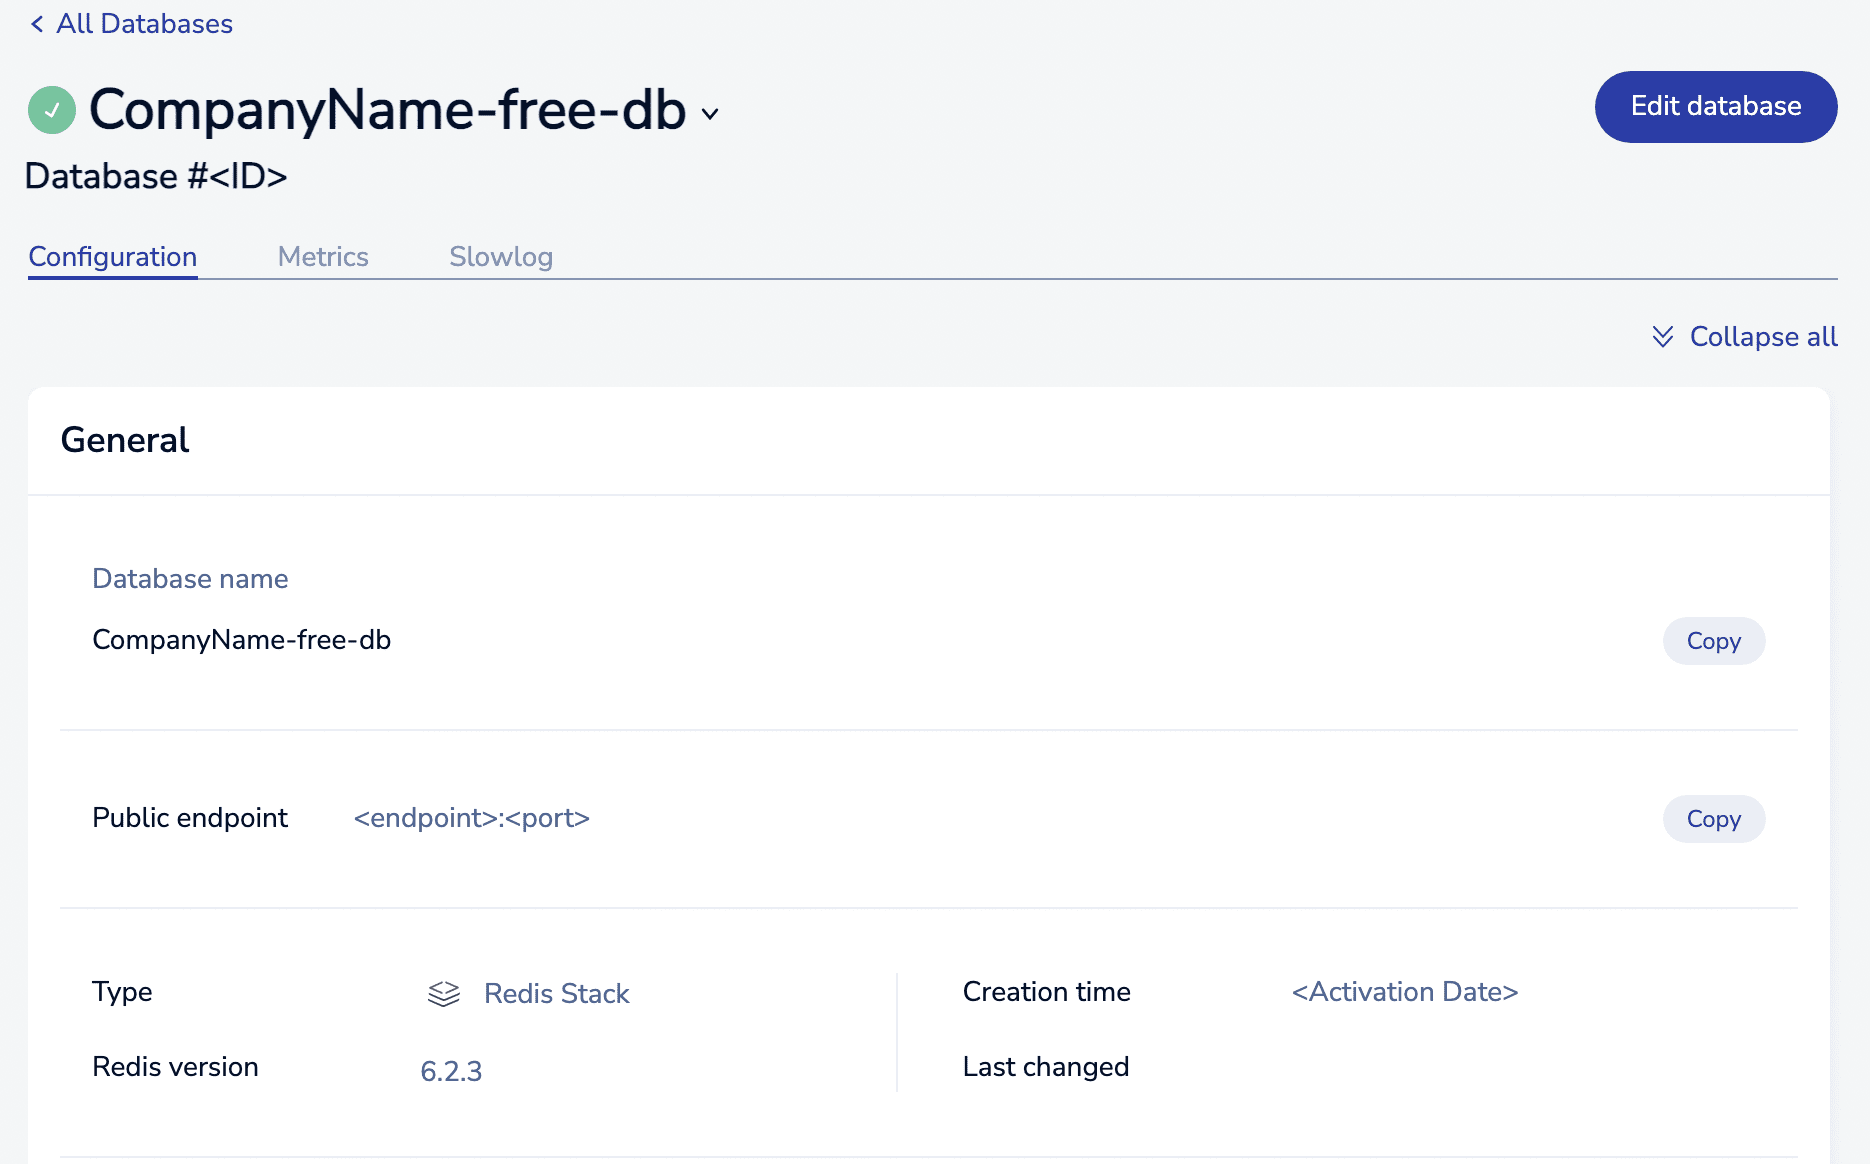
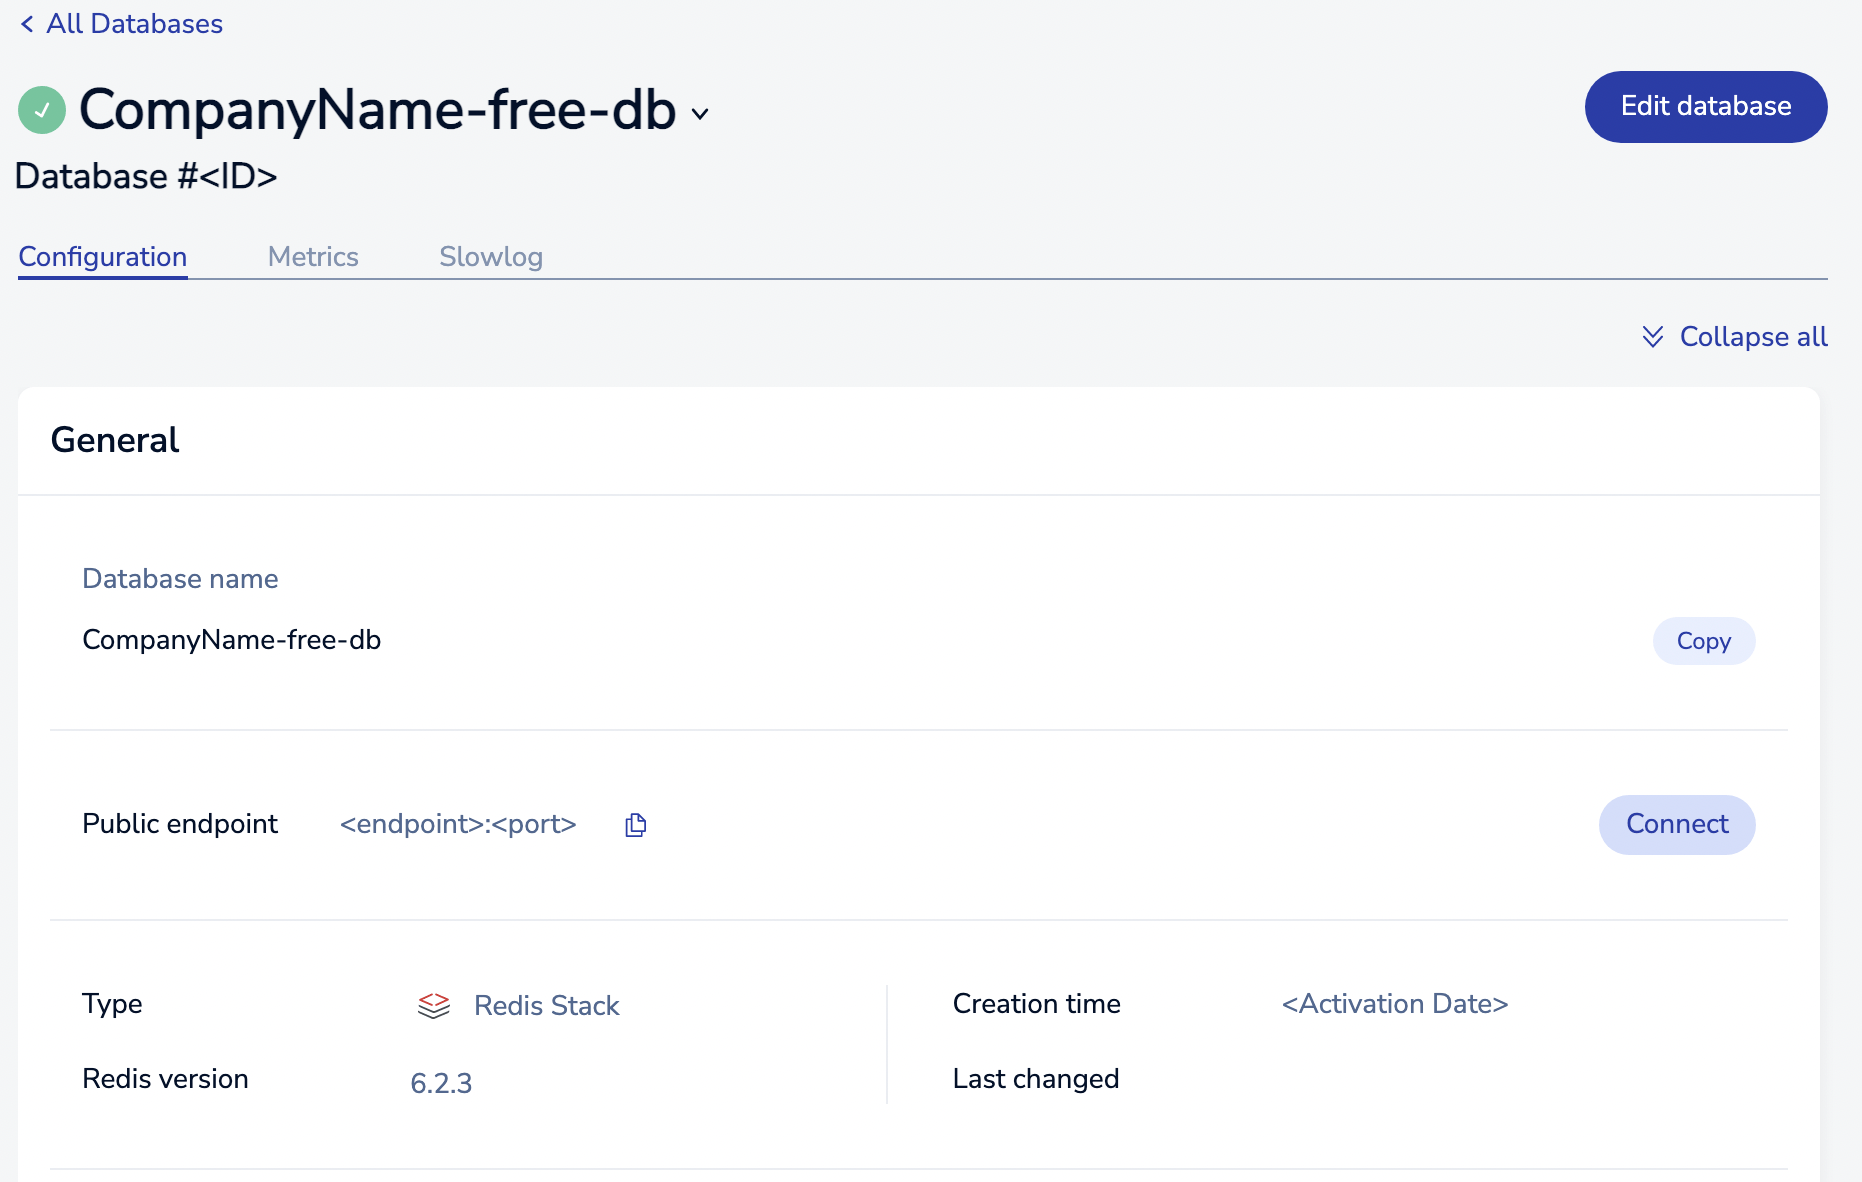
Connection Wizard first draft

diff --git a/content/rc/rc-quickstart.md b/content/rc/rc-quickstart.md
@@ -64,30 +64,27 @@ When your new database becomes active, you're ready to connect to it.
 
 At this point, you're viewing the **Configuration** details for your new database.  
 
-To connect to your database, you need the following info:
+To connect to your database, you need your username and password. For the default user, the username is `default`.
 
-- The hostname for your database
-- The port number
-- The database password
+The **Security** section contains your **Default user password**.  By default, this is masked.  Select the eye icon to show or hide the password.    
 
-These are displayed in the **Configuration** tab.  
+{{<image filename="images/rc/database-fixed-configuration-security.png" width="75%" alt="The Security section of the Configuration tab of the database details page." >}}{{< /image >}}
 
-- In the **General** section, the **Public endpoint** setting shows the hostname for your database and the port number.
+Once you have the username and password, select the **Connect** button to open the connection wizard.
 
-- The **Security** section contains your **Default user password**.  By default, this is masked.  Select the eye icon to show or hide the password.    
+![Connect button](/images/rc/connection-wizard-button.png#no-click "Connect button.")
 
-    {{<image filename="images/rc/database-fixed-configuration-security.png" width="75%" alt="The Security section of the Configuration tab of the database details page." >}}{{< /image >}}
+{{<image filename="images/rc/connection-wizard.png" width="75%" alt="The connection wizard." >}}{{< /image >}}
 
-
-Once you have the connection details, you can connect in a variety of ways, including:
+The connection wizard shows how to connect to your database with the following methods:
 
 - Using the `redis-cli` utility
 
-- Using a [connection client](https://redis.io/clients) for your preferred programming language
+- Using a [Redis client](https://redis.io/clients) for your preferred programming language
 
-Here's an example of each.
+- Using [RedisInsight](https://redis.com/redis-enterprise/redis-insight/)
 
-### Use redis-cli (via Docker){#using-rediscli}
+### redis-cli (via Docker){#using-rediscli}
 
 The [`redis-cli`]({{<relref "/rs/references/cli-utilities/redis-cli/">}}) utility is installed when you install Redis.  It provides a command-line interface that lets you work with your database using core [Redis commands](https://redis.io/commands/).
 
@@ -100,25 +97,23 @@ Run the following commands to create a `redis` Docker container and connect to y
     ``` sh
     $ docker pull redis
     ```
-2.  Start a container created from the image:
+1.  Start a container created from the image:
 
     ``` sh
     $ docker run -d --name redis1 redis
     ```
-3.  Connect to a bash prompt running in the container:
+
+1.  Connect to a bash prompt running in the container:
+
     ``` sh
     $ docker exec -it redis1 bash
     ```
 
-4. Connect to your database with `redis-cli`:
+1. In the connection wizard, under **Redis CLI**, select the **Copy** button to copy the redis-cli command.
 
-    ``` sh
-    # redis-cli -h <host> -p <port> -a <password>
-    ```
+1. Paste the redis-cli command into the terminal, and replace `<username>` and `<password>` with your username and password.
 
-    Replace `<host>`, `<port>`, and `<password>` with the details copied earlier from the **View Database** screen.
-
-5. After you connect to your database, try these basic Redis commands:
+1. After you connect to your database, try these basic Redis commands:
 
     ``` sh
     xxx:yyy> ping
@@ -129,36 +124,76 @@ Run the following commands to create a `redis` Docker container and connect to y
     "world"
     ```
 
-### Use code (Python)
+    See the [commmand list](https://redis.io/commands/) for a list of all Redis commands.
 
-Different programming languages use different clients to interact with Redis databases.
+### Redis client
 
-Here's how to connect to your database using the `redis-py` library for Python.
+Different programming languages use different connection clients to interact with Redis databases. Each client has its own syntax and installation process, so read the documentation for the client you are using before running your code.
 
-1.  If you don't already have the client installed:
+The connection wizard contains code snippets to connect to your database for the following programming languages:
+
+- node.js using [ioredis](https://github.com/luin/ioredis#quick-start)
+- .NET using [StackExchange.Redis](https://stackexchange.github.io/StackExchange.Redis/)
+- Python using [redis-py](https://github.com/redis/redis-py#redis-py)
+- Java using [Jedis](https://github.com/redis/jedis#jedis)
+
+See the [client list](https://redis.io/docs/clients/) to view all Redis clients by language.
+
+#### Code example (Python)
+
+Here's how to connect to your database using the [redis-py](https://github.com/redis/redis-py#redis-py) library for Python.
+
+1.  Install the Redis client if it is not already installed.
 
     ```sh
-    sudo pip install redis
+    $ sudo pip install redis
     ```
 
-2.  The specific syntax varies according to the client:
+2.  In the connection wizard, under **Redis Client**, select Python from the **Select your client** menu.
+
+3. Select **Copy** to copy the connection code for your database.
+
+4. Paste the code into your program, and replace `<username>` and `<password>` with your username and password.
 
     ```python
     import redis
-    r = redis.Redis(host='<endpoint>', port='<port>',
-                    password='<password>')
+
+    r = redis.Redis(
+      host='<host>',
+      port=<port>,
+      password='<password>')
+
+    # Redis commands
     r.set('hello', 'world')
     print(r.get('hello'))
     ```
 
-3.  Now, run the code:
+5. Run the program.
 
     ```sh
     $ python example_redis.py
     world
     ```
 
-See the [client list](https://redis.io/docs/clients/) to view all Redis clients by language.
+### RedisInsight
+
+RedisInsight is a free Desktop GUI for Redis that is available for MacOS, Windows, and Linux.
+
+1. In the connection wizard, under **Redis Client**, select your operating system from the **Download RedisInsight** menu.
+
+1. Select **Download** to download RedisInsight.
+
+1. [Install RedisInsight]({{< relref "/ri/installing/install-redis-desktop" >}}).
+
+1. Once RedisInsight is installed and open, select **Add Redis Database**.
+
+1. In the connection wizard, under **RedisInsight Desktop**, select **Copy** to copy the connection information.
+
+1. In RedisInsight, paste the connection information into the **Host** field. RedisInsight will automatically populate the rest of the information needed to connect to the database with the default user.
+
+1. Select **Add Redis Database** to connect to the database.
+
+See the [RedisInsight documentation]({{< relref "/ri/_index.md" >}}) for more information.
 
 ## More info
 
